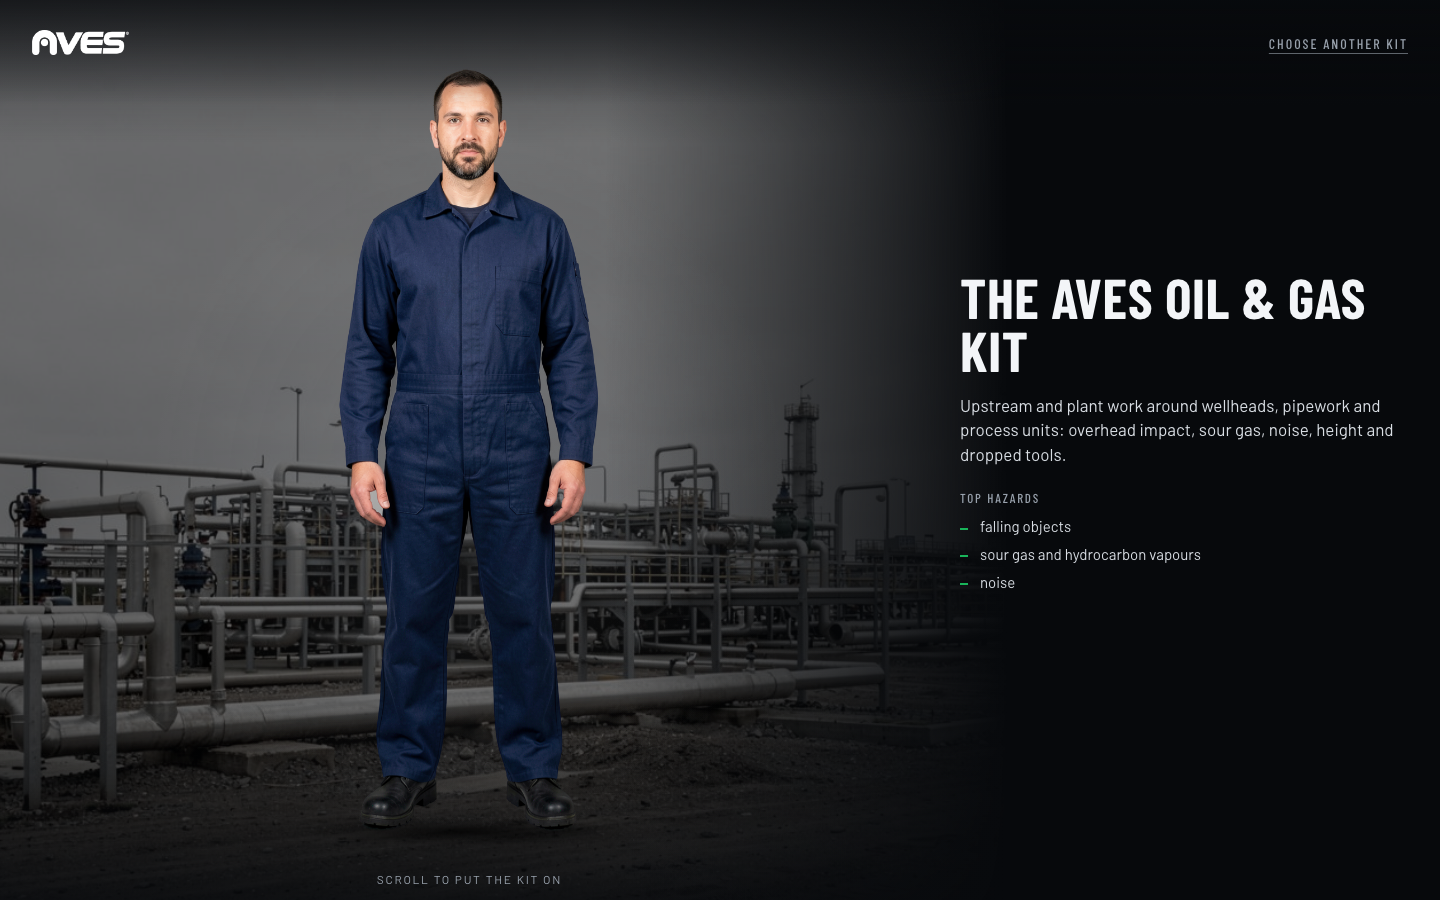
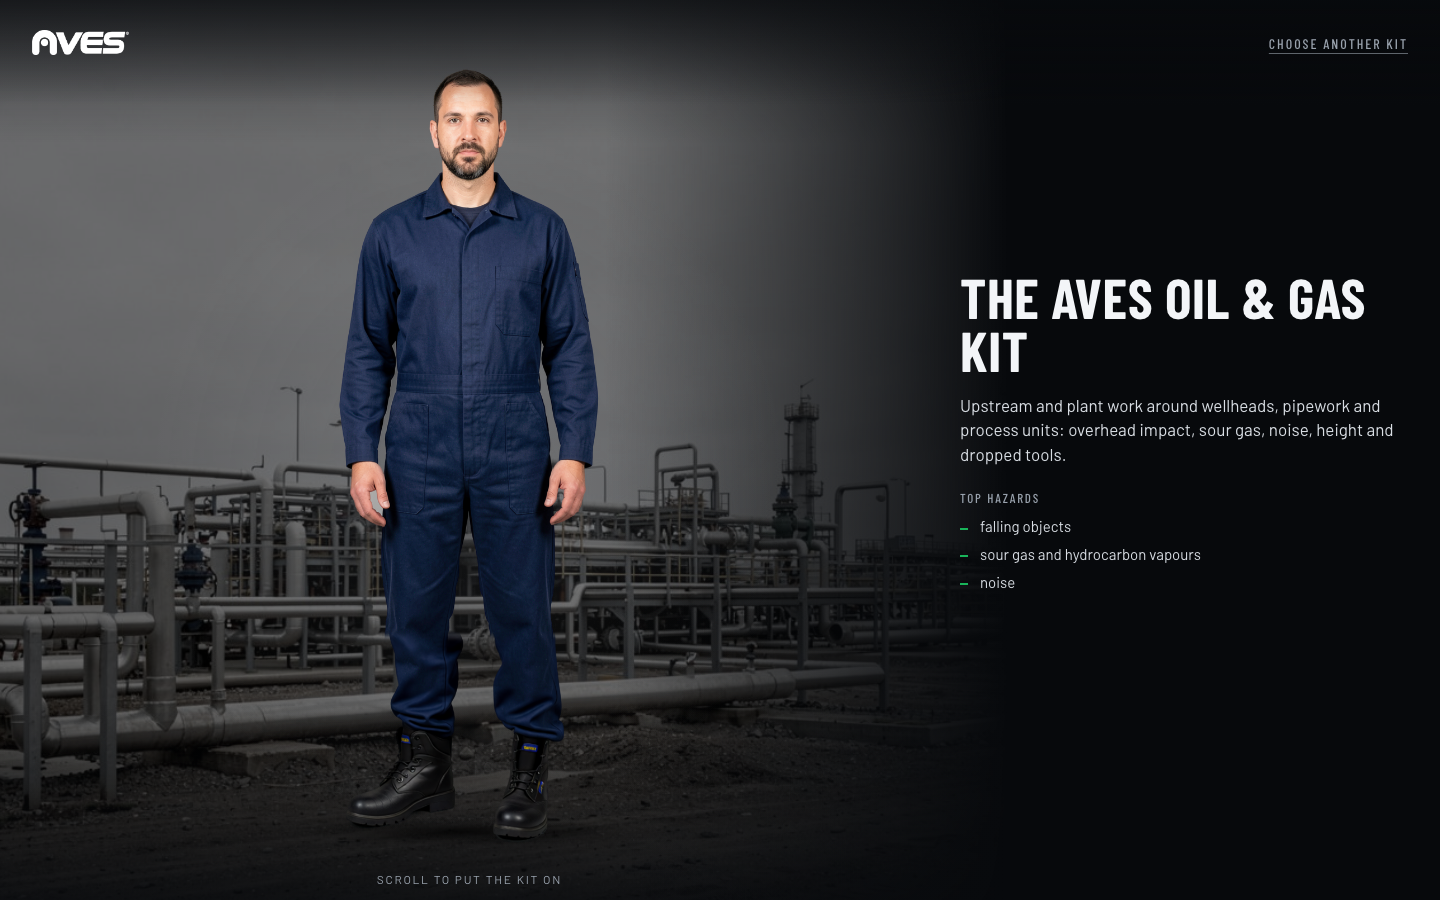
AVES Experience v0.3: NOTES brought current (boots, 99 layers, welding hood, draft limits); scene sequence re-shot on the full library
Claude-Session: https://claude.ai/code/session_01PX1Jc5bepxAnaTe5bTuQxJ

Changed region(s): [[0.25, 0.6844, 0.3438, 0.9022], [0.3438, 0.7778, 0.4062, 0.9333]]

diff --git a/v0.3/experience/NOTES.md b/v0.3/experience/NOTES.md
@@ -1,4 +1,4 @@
-# The AVES Experience v0.3: notes (2026-11-05)
+# The AVES Experience v0.3: notes (2026-11-05, updated 2026-11-06)
 
 Built to the FigCraft comps in `../design/` (01 to 04 and their NOTES.md). The picker slices are 74 px at rest, 221 px on hover, with 20 px gaps between groups and a rule plus label under each group. The stage has the man at about 762 px, a fade to black across 42 to 70 % of the width, and a two-column shelf grid with numbered labels, a progress bar and the detail block with Add to quote. The phone has a sideways shelf row with scroll-snap, and the detail block below it.
 
@@ -8,19 +8,21 @@ Debug queries: `?kit=<id>` (deep link to the walk-on), `?pick=<id>` (picker, the
 
 ## What is real
 - All 18 kits, the groups, hazards, intros, slots, primaries, alternates, "why" lines, SKUs and standards come from `data/kits.json` and `data/products.json` at runtime. Nothing is hard-coded per kit.
-- The man and his layers come from `assets/dress/` (base.png plus the 7 Oil & Gas layers). Donning order comes from the page (head, eye, hearing, respiratory, face, vest, fall, dropped, hand, cryo-body). Stacking comes from the manifest `z`. A layer goes on the man only when it has `status: ok`, its file loads, and its `dependsOn` host is on the man too.
+- The man and his layers come from `assets/dress/` (base.png with Cavalier Captain-style boots, plus 99 layers covering all 18 kits, every one `status: ok` after four were regenerated on 2026-11-06). All of these are local drafts (FLUX.2 klein 9B / Qwen Image Edit 2511); the finals come from Higgsfield and drop into the same filenames. Donning order comes from the page (head, eye, hearing, respiratory, face, vest, fall, dropped, hand, cryo-body). Stacking comes from the manifest `z`. A layer goes on the man only when it has `status: ok`, its file loads, and its `dependsOn` host is on the man too.
 - Fallbacks I tested: a kit with no manifest entry (cryogenic) keeps the bare man and the shelf still works. Missing backdrops use a dark tinted gradient with the kit name. A missing cutout falls back to a crop of the layer, then to a text label. If base.png is missing, `spikes/dress-v0.2/frames/00.jpg` is used. Only the picked kit's layers load.
 
 ## Placeholder
 - Backdrops: all 18 were present at the last shoot. The gradient fallback still covers any that go missing.
-- Boots on the base are generic. The Cavalier pass has not been done.
+- Boots on the base are a Cavalier Captain 8713-4 draft (reference-conditioned, `base-v1.png` is the old generic base). Still a local draft, not a Cavalier photo.
 - The Scuta and Cavalier links are `href="#"` with `data-todo`. No URL for either site exists anywhere in the repo, so I did not invent one. Fill `BRAND_LINKS` at the top of `app.js`; a filled entry becomes a real link that opens in a new tab.
 - Add to quote is a no-op that shows a toast ("Kit added to quote (preview)").
 
 ## Known flaws
 - Console: there are zero JS errors and zero exceptions on every verification URL (checked over CDP). manifest.json now carries a "backdrops" list (dress-pipeline, 2026-11-05 20:49), and the page only requests backdrops in that list, so a missing file no longer logs a 404. There are no per-kit base files, so base.png is used for every kit.
 - Vest vs base, resolved by the lead 2026-11-05: the vest is a dressing step ("Hi-vis by Scuta · sister brand, not part of the AVES range"); the boots are the base, and the line under the shelf reads "Boots by Cavalier".
-- Oil & Gas respiratory (escape hood) has no layer in the manifest, so it stays on the shelf ("On the shelf only"). This needs fixing in the pipeline, not on the page.
+- Escape-hood pouches (oil-gas, rig-drilling, cryogenic) have layers but read as a flat canister smear at the hip. Pipeline draft limit; a Higgsfield final.
+- Welding: the AVES welding helmet has its own head harness, so it is a standalone layer at z 85 that covers the hard hat when it goes on at the face step. Wearing both is a curation question for product management (drop the hard hat from the welding kit, or source a helmet-mount shield).
+- Draft rough spots: some klein glasses layers have hard-cut edges (hidden under face shields), trouser hems bunch at the boot shafts, a faint knee seam on the base.
 - The generated layers carry a light halo at their edges (helmet, earmuffs, gloves are the most visible). This comes from the pipeline's masks and shows on a dark stage.
 - Comp deviations: the alternates are back on the lead's word ("one worn, the rest options"). On desktop they sit under the detail block as "Options" with ghost cutouts, name and SKU, and the grid rows are 106 px (86 for 5 rows) so they fit at 900. On phone they are a one-line "Options" list, and "Boots by Cavalier" shares the row with Add to quote. A two-line product name together with two-line options could still crowd the phone at 844; this was not seen in the shots. On phone the detail block switches without a crossfade, so the CTA sits under the active block and not under the kit's tallest one. The "shelf only" line is hidden on phone so the CTA and the Cavalier line still fit at 844. On desktop the grid cells shrink to 92 px for 5 rows (Demolition).
 - Phone deviations: the picker is 18 horizontal bands, not vertical slices (20 px slices cannot hold a name). Hover does not widen bands on phone. The shelf is a row of thumbnails with one detail block for the active item below the man.

diff --git a/WORKLOG.md b/WORKLOG.md
@@ -53,7 +53,7 @@
 - Bench `spikes/dress-v0.2-bench/` (SETUP.md): Draw Things CLI 26.1023 (homebrew/core) gives multi-reference editing via repeated `--image`. klein 9B = rigid head items; Qwen Edit 2511 + Lightning 4-step LoRA (community zoo, 847 MB) = gloves/garments. Always `--width 896 --height 1536`. FLUX.2 dev dead on the homebrew build (issue #152, bf16 Metal kernels); mflux installed but gated weights need his HF login (parked). Local = drafts only; finals on Higgsfield (his word).
 - Chain v0.2 (`spikes/dress-v0.2/`): 9 frames, box-merged. Then the v0.3 pipeline `tools/dress/` (gen.py/build.py/clean_layers.py): per-item RGBA layers over one base, manifest contract in `docs/superpowers/specs/2026-11-05-aves-experience-v0.3-design.md` §2; 18 backdrops (klein t2i 1536×864, seed 2026); 99 layers, build runs detached under caffeinate (`tools/dress/build.log`), QC sheet per kit in `spikes/dress-v0.3-qc/`. Fixes applied: pouch/tether prompts + full-width hip band mask, edge clean pass.
 - Site `v0.3/experience/` (index/app.js/app.css): sliced picker → walk-on → pinned outfitting stage with shelf + alternates → close + other kits; `?kit=` deep link; reduced motion; verified headless. FigCraft comps in `v0.3/design/` (picker resting/hover, stage, phone) adopted by the build. Launcher `~/Desktop/Sloane Previews/aves-experience-v0.3/`.
-- Open: Scuta + Cavalier URLs (BRAND_LINKS in app.js), boots placeholder (Cavalier pass), walk-on is a slide-in (EffectCraft render later), escape-hood product facts to product management, kit sign-off, data discrepancies for IT (Titan 6-pt vs 4-pt; HG-2230 Cat III vs II).
+- Open: Scuta + Cavalier URLs (BRAND_LINKS in app.js), walk-on is a slide-in (Higgsfield walk cycle later; boots done 2026-11-05 21:18), escape-hood product facts to product management, kit sign-off, data discrepancies for IT (Titan 6-pt vs 4-pt; HG-2230 Cat III vs II).
 - 2026-11-05 late → 06 00:35: Cavalier boots pass into `assets/dress/base.png` (base-v1.png = old). Library build finished 00:09: 99 unique layers, 87 generated tonight, 0 failed; every kit sheet in `spikes/dress-v0.3-qc/` reviewed by me. Four kits failed QC and were regenerated in series (`tools/dress/fix-run*.sh`, `DRESS_SEED` env added to build.py): construction + aviation harnesses had wiped the vest (fixed by seed + fall placement "the yellow vest stays fully visible"); welding helmet is its own-headgear hood, now a standalone layer at z 85 worn instead of the hard hat (first pass gave an open shell with bare crown; closed-shell text + seed 11 fixed it); cryogenic apron (navy on navy) now generated on the vest frame so the diff mask is whole. All 18 pass as drafts.
 - Walk-on clip: NO local clip. Wan 2.2 TI2V 5B in Draw Things CLI 26.1023 aborts at decode (`CCV_IS_TENSOR_VIEW` assertion) at every size, t2v too (`spikes/walk-on/NOTES.md`, 13.7 GB of models added to Mark's folder, add-only). Slide-in stays; the walk cycle is a Higgsfield final. EffectCraft does not fit without frames.
 - /tmp/aves-venv died at midnight (macOS clears /tmp files untouched 3 days; hollow package dirs). Rebuilt as `aves-showcase/.venv` (git-ignored; /tmp/aves-venv is now a symlink to it); tool docstrings updated. Lesson: never keep a venv in /tmp.

diff --git a/v0.3/experience/shots/kits/REPORT.md b/v0.3/experience/shots/kits/REPORT.md
@@ -97,3 +97,5 @@ For the four regenerating kits, loop: `for K in construction aviation welding cr
 
 ## Manifest note
 All 95 layers in manifest.json have status ok (the count moved from 93 to 95 during the shoot, so regeneration is writing to it). These kit order entries have no layer record yet, so those kits shoot without them: aviation (full-body-harness-4, av-101363__on-full-body-harness-4), welding (aves-welding-helmet), cryogenic (thermal-protection-apron). Re-shoot after the regeneration lands.
+
+Update 2026-11-06: the four kits construction, aviation, welding and cryogenic were re-shot after regeneration, clean (no console errors or 404s).
